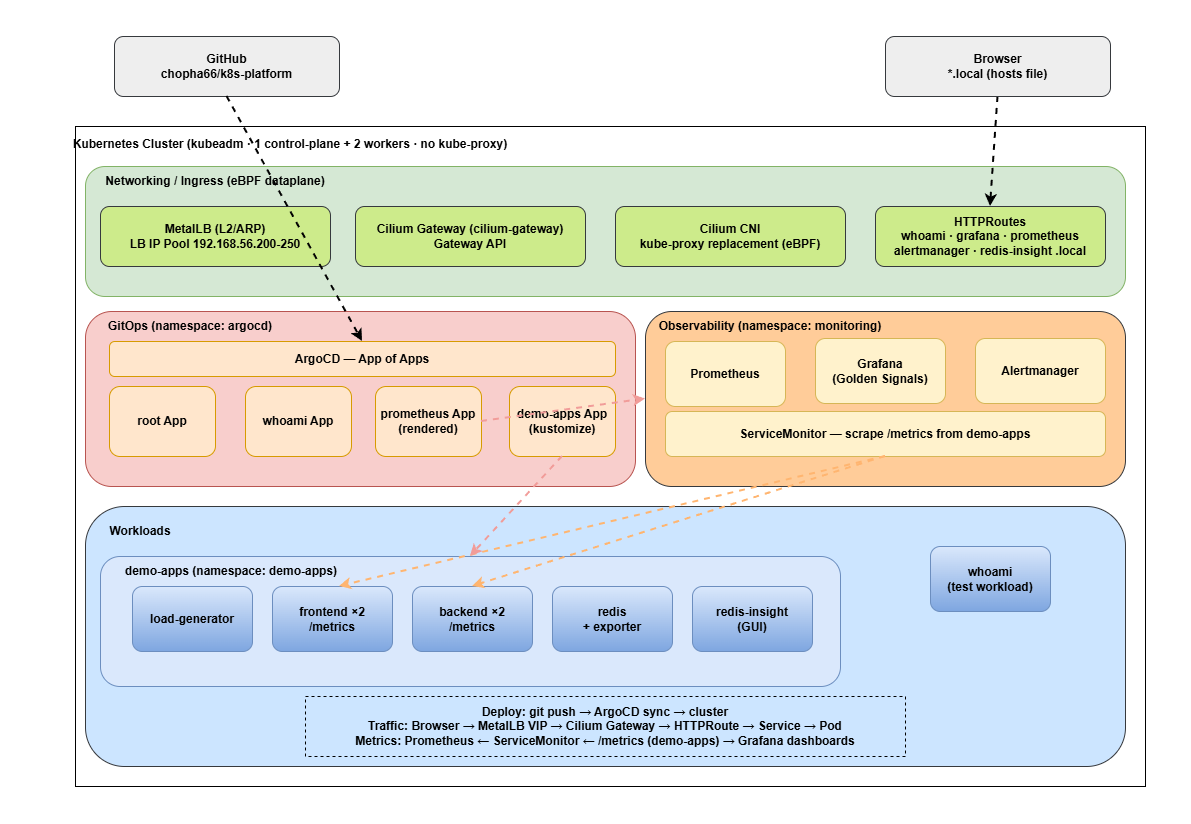
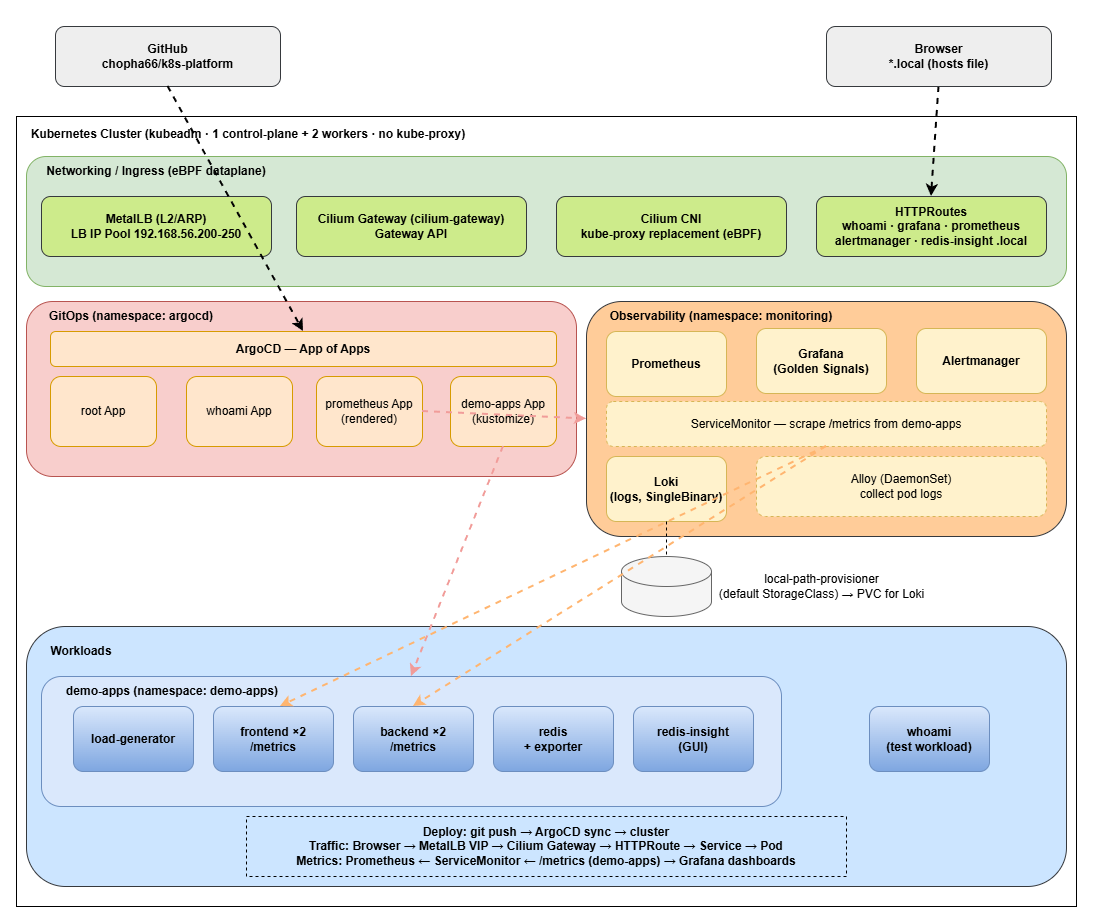
Phase4-3. 문서 최신화

diff --git a/README.md b/README.md
@@ -1,7 +1,7 @@
 # K8S Platform
 
 Vagrant와 쉘 스크립트로 구축한 3노드 Kubernetes 클러스터.  
-kube-proxy 없는 eBPF 기반 네트워킹(Cilium KPR) 위에 로드밸런서와 Gateway API까지, 클러스터 전 계층을 코드로 재현한다.
+kube-proxy 없는 eBPF 네트워킹(Cilium KPR) 위에 LB·Gateway API·GitOps·Observability(메트릭·네트워크 가시성)까지, 클러스터 전 계층을 코드로 재현하고 Git을 단일 진실 공급원으로 운영한다.
 
 ## 아키텍처
 
@@ -14,18 +14,20 @@ Windows 11 Host (Ryzen 7500F / 32GB)
     └── LoadBalancer IP Pool      192.168.56.200-250 (MetalLB)
 ```
 
-| 구성 요소               | 선택                                                           | 버전            |
-|---------------------|--------------------------------------------------------------|---------------|
-| OS                  | Ubuntu Server                                                | 24.04 LTS     |
-| Kubernetes          | kubeadm                                                      | 1.35          |
-| 컨테이너 런타임            | containerd                                                   | apt 기본        |
-| CNI / kube-proxy 대체 | Cilium (KPR 모드)                                              | 1.19.5        |
-| LoadBalancer        | MetalLB (L2 mode)                                            | v0.16.1       |
-| L7 라우팅              | Cilium Gateway API                                           | CRD v1.3.0    |
-| GitOps              | ArgoCD (App of Apps)                                         | v3.4.5        |
-| 메트릭/모니터링            | 	kube-prometheus-stack (rendered manifests)                  | chart 87.18.1 |
-| 데모 워크로드             | 	frontend/backend/redis/redis-insight + load-gen (Kustomize) | -             |
-| 네트워크 가시성            | 	Hubble (Cillium eBPF)                                       | -             |
+| 구성 요소               | 선택                                                           | 버전                         |
+|---------------------|--------------------------------------------------------------|----------------------------|
+| OS                  | Ubuntu Server                                                | 24.04 LTS                  |
+| Kubernetes          | kubeadm                                                      | 1.35                       |
+| 컨테이너 런타임            | containerd                                                   | apt 기본                     |
+| CNI / kube-proxy 대체 | Cilium (KPR 모드)                                              | 1.19.5                     |
+| LoadBalancer        | MetalLB (L2 mode)                                            | v0.16.1                    |
+| L7 라우팅              | Cilium Gateway API                                           | CRD v1.3.0                 |
+| GitOps              | ArgoCD (App of Apps)                                         | v3.4.5                     |
+| 메트릭/모니터링            | 	kube-prometheus-stack (rendered manifests)                  | chart 87.18.1              |
+| 로그                  | 		Loki (SingleBinary) + Grafana Alloy                 | chart 7.2.0 + chart 1.11.0 |
+| Storage             | 		local-path-provisioner                | rancher v0.0.30                   |
+| 데모 워크로드             | 	frontend/backend/redis/redis-insight + load-gen (Kustomize) | -                          |
+| 네트워크 가시성            | 	Hubble (Cillium eBPF)                                       | -                          |
 
 **아키텍처 구성도**
 ![Demo Dashboard 구성](docs/images/architecture.png)
@@ -40,7 +42,9 @@ vagrant up
 
 # 2. 애드온 설치 (모든 노드 join 후 실행해야 함 — 아래 '겪은 문제들' 참고)
 vagrant provision master --provision-with metallb-manifests,metallb-addons
+vagrant provision master --provision-with storage-manifests,storage-addons
 vagrant provision master --provision-with gateway-manifests,gateway-addons
+vagrant provision master --provision-with hubble-manifests,hubble-addons
 
 # 3. GitOps 부트스트랩 (ArgoCD 설치 → 이후 워크로드는 Git이 관리)
 vagrant provision master --provision-with argocd-manifests,argocd-addons
@@ -65,11 +69,13 @@ k8s-platform/
 │   ├── metallb/                   # IPAddressPool / L2Advertisement
 │   ├── gateway/                   # GatewayClass / Gateway
 │   ├── hubble/                    # HttpRoute
+│   ├── storage/                   # local-path-storage (rancher)
 │   └── scripts/
 │       ├── argocd-addons.sh       # argoCD 설치 + aoa 초기 설정
 │       ├── gateway-addons.sh      # Gateway API CRD + Cilium Gateway 활성화
 │       ├── hubble-addons.sh       # Hubble 설치 + 설정
-│       └── metallb-addons.sh      # MetalLB 설치 + 설정
+│       ├── hubble-addons.sh       # Hubble 설치 + 설정
+│       └── storage-addons.sh      # local path provisioner 구성 + 설정
 ├── argocd/
 │   ├── resources/                 # root-app / HttpRoute
 │   ├── apps/                      # Sample용 App
@@ -80,6 +86,12 @@ k8s-platform/
 │   ├── load-generator/            # Sample용 App (트래픽 생성)
 │   └── redis/                     # Sample용 App (redis)
 └── observability/
+    ├── alloy/                     # alloy (chart v1.11.0)
+    │   ├── helm                   # Helm Chart + values.yaml
+    │   └── kustomize              # 적용 Manifest
+    ├── loki/                      # loki (chart v7.2.0)
+    │   ├── helm                   # Helm Chart + values.yaml
+    │   └── kustomize              # 적용 Manifest
     ├── prometheus/                # kube-prometheus-stack
     │   ├── helm                   # Helm Chart + values.yaml
     │   └── kustomize              # 적용 Manifest
@@ -121,9 +133,14 @@ Git을 단일 진실 공급원으로 삼아, root Application 하나가 하위 A
 
 **Kustomize (직접 만든 앱), Helm (서드파티 차트).**  
 
-패키징된 서드파티(kube-prometheus-stack)는 Helm으로, 직접 구성한 데모 마이크로서비스는 Kustomize base로 관리해 도구를 적재적소에 배분했다. 관측성 데모용으로 계측된 오픈소스 앱(prometheus-example-app, redis+exporter, load-generator, Redis Insight)을 조합하고, 각 앱에 ServiceMonitor를 붙여 Prometheus가 커스텀 메트릭을 수집하도록 구성했다. Grafana에서 골든 시그널(트래픽·에러·지연) 및 Request 분석 대시보드로 시각화한다.
+패키징된 서드파티(kube-prometheus-stack, Loki, Alloy)는 Helm으로, 직접 구성한 데모 마이크로서비스는 Kustomize base로 관리해 도구를 적재적소에 배분했다. 관측성 데모용으로 계측된 오픈소스 앱(prometheus-example-app, redis+exporter, load-generator, Redis Insight)을 조합하고, 각 앱에 ServiceMonitor를 붙여 Prometheus가 커스텀 메트릭을 수집하도록 구성했다. Grafana에서 골든 시그널(트래픽·에러·지연) 및 Request 분석 대시보드로 시각화한다.  
+로그는 Loki(SingleBinary)와 Grafana Alloy(DaemonSet)로 구성해, Alloy가 전 노드의 파드 로그를 수집·전송하고 Loki가 저장하며 Grafana에서 LogQL로 조회한다. 세 서드파티 차트(prometheus·loki·alloy) 모두 동일한 rendered manifests 패턴으로 로컬 렌더링해 Git에 커밋하며, 이로써 메트릭·로그를 하나의 일관된 배포 방식으로 관리한다.
 
+<Demo Dashboard 구성>
 ![Demo Dashboard 구성](docs/images/DemoDashboard.png)
+
+<Grafana 로그 조회>
+![Grafana 로그 조회](docs/images/loki_log.png)
 
 **고정 부트스트랩 토큰.**  
 
@@ -192,10 +209,14 @@ kube-prometheus-stack 기본 대시보드 다수가 모든 쿼리에 cluster="$c
 cilium install/upgrade는 겉보기와 달리 내부적으로 Helm 릴리스로 Cilium을 관리한다. Gateway API 트러블슈팅 때 수동 생성(kubectl)한 GatewayClass는 Helm 소유권 메타데이터가 없어, 이후 Hubble 활성화를 위한 cilium upgrade 시 "cannot be imported ... missing meta.helm.sh/release-name"으로 실패했다.
 Helm이 자기 표식 없는 리소스를 안전을 위해 인수하지 않기 때문. GatewayClass에 app.kubernetes.io/managed-by=Helm 라벨과 meta.helm.sh/release-name/namespace 어노테이션을 부여해 Helm이 인수하도록 해결. (근본 해결은 install 시점에 gatewayAPI를 켜 Cilium이 GatewayClass를 소유하게 하는 것.)
 
+**Loki read-only 파일시스템 Crash.**  
+
+Loki SingleBinary 파드가 mkdir /var/loki: read-only file system으로 크래시 루프에 빠졌다. persistence 비활성 + 컨테이너 read-only 루트 파일시스템이 겹쳐, 데이터 디렉토리를 만들 수 없던 것. 홈랩에 StorageClass가 없어 PVC도 못 받는 상황이라, local-path-provisioner를 도입해 동적 스토리지(기본 StorageClass)를 제공하고 Loki persistence를 켜서 해결. 스토리지는 애드온 스크립트로, PVC를 쓰는 앱은 GitOps로 분리해 "인프라는 스크립트, 앱은 Git"의 경계를 명확히 했다.
+
 ## 로드맵
 
 - [x] 1단계: VM 프로비저닝 + kubeadm 클러스터 자동화
 - [x] 2단계: MetalLB + Cilium Gateway API
 - [x] 3단계: GitOps (ArgoCD)
-- [~] 4단계: 옵저버빌리티 (Prometheus/Grafana/Loki + Hubble)
+- [x] 4단계: 옵저버빌리티 (Prometheus/Grafana/Loki + Hubble)
 - [ ] 5단계: 시크릿 관리 + 보안 강화
